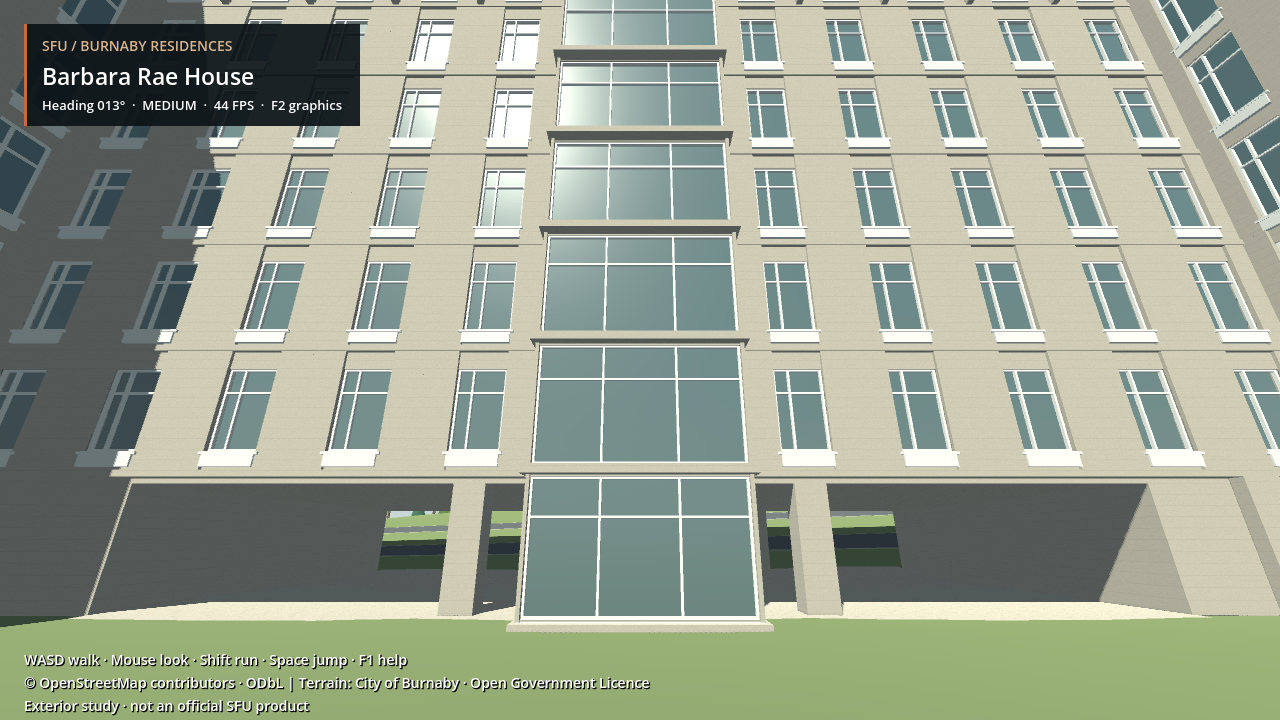
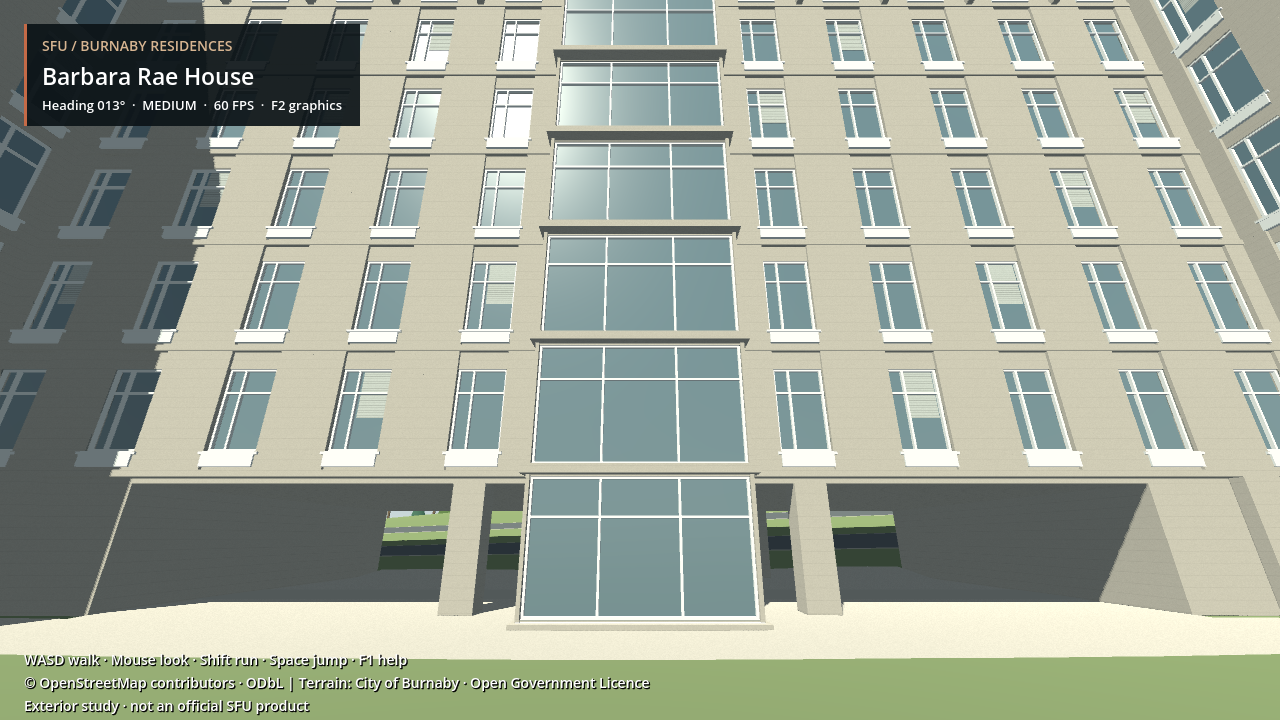
Refine North ground glazing and courtyard apron; correct building identification at entrances

diff --git a/docs/PHASE2_HANDOFF.md b/docs/PHASE2_HANDOFF.md
@@ -1,6 +1,6 @@
 # Phase 2 handoff — 2026-10-16
 
-Canonical /home/danik/GitHub/SFU Residence/game. Continue existing project. Current committed checkpoint033f2ca; plan-informed North revision in working tree with165 passing checks and333 route checkpoints. Do not redo migration, camera fix or townhouse modeling.
+Canonical /home/danik/GitHub/SFU Residence/game. Continue existing project. Current committed checkpoint033f2ca; plan-informed North revision in working tree with166 passing checks and333 route checkpoints. Do not redo migration, camera fix or townhouse modeling.
 
 ## Current work
 User approves townhouses and asks North Towers next, using supplied photos. Nine photos indexed in reference_photos/Barbara_Pauline_Shadbolt/PHOTO_REVIEW.json. Three official housing plans reviewed visually: central lounge, five room bays each side, projected stair end west BRH/SBH and east PJH. URLs in ONLINE_REFERENCES.json; private PDF copies in Windows Temp/sfu-north-plan-review. No ground-level plan in public PDFs. Full Facilities key plans require CAS; do not bypass. Preserve8 levels despite housing marketing page7/SBH PDF missing8; see audit.
@@ -8,7 +8,7 @@ User approves townhouses and asks North Towers next, using supplied photos. Nine
 NorthTowerExterior.gd now shares central glazing/room modules and per-instance stair handedness. NorthTowerPassage.gd makes two traversable exterior lanes around a closed ground lounge core. Overall width24m/core5m/clearance2.9m/columns are approximate. Tests prove both lanes and solid core/columns; exact ground configuration still needs photo-to-map work. NorthTowerMaterials.gd owns its materials, leaving E/W FacadeKit untouched.
 
 ## Verification
-165 physics checks in /tmp/north-two-lanes.log. Full333 route checks and data preservation in /tmp/north-plan-verification.log. Last changes after physics were cosmetic lounge mullion only. Plan-revision visual capture /tmp/north-plan-capture.log completed without script errors; views8/9 reviewed. Focused captures: bash scripts/run_game.sh -- --capture-north. Outputs view8 courtyard, view9 entry, performance_north.json. Earlier view9 from94,48 was blocked by neighboring building; corrected to existing BRH outdoor anchor. Do not use rejected screenshot as facade evidence.
+166 physics checks in /tmp/north-two-lanes.log. Full333 route checks and data preservation in /tmp/north-plan-verification.log. Last changes after physics were cosmetic lounge mullion only. Plan-revision visual capture /tmp/north-plan-capture.log completed without script errors; views8/9 reviewed. Focused captures: bash scripts/run_game.sh -- --capture-north. Outputs view8 courtyard, view9 entry, performance_north.json. Earlier view9 from94,48 was blocked by neighboring building; corrected to existing BRH outdoor anchor. Do not use rejected screenshot as facade evidence.
 
 ## Next concrete step
 Final views8/9 reviewed. Save this checkpoint, then improve North ground-floor glazed frontage and courtyard apron based on the supplied wide courtyard image. Resolve sign/entrance mapping before moving any registered entry. Do not invent interior circulation. Source observations/remaining estimates are in PHASE2_NORTH_TOWER_REVIEW.md and PHASE2_NORTH_PLAN_AUDIT.md.
@@ -21,3 +21,6 @@ python3 scripts/validate_families.py
 Camera user-confirmed fixed; keep native capture/separate axes. E/W hashes protected. Townhouses visually accepted. Terrain pad/threshold heights preserved; no vertical exaggeration. Original registry/routes/site and nested rollback unchanged. Old Markdown backup /home/danik/Backups/SFU-Residence-Phase1-docs-20261016 verifies29 records. No dependencies installed, no interiors/NPC/API.
 
 Latest actual usage snapshot13% five-hour/2% weekly after reset; obsolete91% stopping note does not apply. Continue on user's authorization and save meaningful verified milestones.
+
+## Ground frontage/detail milestone
+Wider ground-floor side-wing glazing, separate paving material and courtyard apron follow source photographs without changing terrain or road coordinates. Added subtle exterior blind variation and North-only glazing tone, narrowed stair screen to a partial end assembly, and adjusted inner-corner glazing. Sign bands use dark lettering at existing mapped entries (exact photographic position remains unverified). Fixed HUD nearest-building lookup to use footprint distance: PJH door no longer says Hamilton Hall.166 physics checks pass, including this regression. Final GPU capture /tmp/north-detail-capture.log completed; views8-12 reviewed for courtyard, all3 entries and passage eye-level exit. No geometry collision changes since333-route pass. DYS architect gallery additionally confirms eight-storey towers and documents stair-glazing clamps; reference metadata saved. Next: stair-glazing clamp detail and evidence-based courtyard/site refinements, with exact curved lawn/stair placement still unresolved.

diff --git a/docs/PHASE2_STATUS.md b/docs/PHASE2_STATUS.md
@@ -10,7 +10,7 @@ Checkpoint033f2ca covers columned courtyard opening, concrete materials and entr
 
 All9 user-selected photos individually reviewed and indexed. SBH identified from readable sign in PWL1001. Three official level2 plans visually reviewed; exact dimensions/ground opening layout remain estimated. Detailed evidence and uncertainty in PHASE2_NORTH_TOWER_REVIEW.md and PHASE2_NORTH_PLAN_AUDIT.md.
 
-Validation:165 physics checks pass, including two passage traversals per tower, solid columns and closed central lounge.333 continuous route checkpoints pass. Family/runtime preservation validators pass. Final plan-revision GPU capture completed on GTX1650 Compatibility; views8/9 inspected at eye level. No interiors/NPC/API.
+Validation:166 physics checks pass, including two passage traversals per tower, solid columns and closed central lounge.333 continuous route checkpoints pass. Family/runtime preservation validators pass. Final plan-revision GPU capture completed on GTX1650 Compatibility; views8/9 inspected at eye level. No interiors/NPC/API.
 
 ## Other architecture
 MCH renewed-envelope model and Courtyard precast model present; Courtyard lower-wing heights unresolved. Hamilton photo identity confirmed, detailed model pending. Dining/Shell distinct reference modeling pending. Exterior steps/paving/retaining detail remains incomplete.
@@ -18,3 +18,6 @@ MCH renewed-envelope model and Courtyard precast model present; Courtyard lower-
 Next: finish North plan-revision visual checkpoint, then refine ground-level glazed frontage/courtyard paving and map sign/entrance positions from identified photos. Preserve coordinates and avoid claiming estimated ground geometry is surveyed.
 
 Most recent actual usage snapshot during this continuation:13% five-hour/2% weekly used after reset. Earlier91% weekly snapshot is obsolete. User explicitly authorized continuing; keep runnable checkpoints, heed a new actual warning if received.
+
+## Ground frontage/detail milestone
+Wider ground-floor side-wing glazing, separate paving material and courtyard apron follow source photographs without changing terrain or road coordinates. Added subtle exterior blind variation and North-only glazing tone, narrowed stair screen to a partial end assembly, and adjusted inner-corner glazing. Sign bands use dark lettering at existing mapped entries (exact photographic position remains unverified). Fixed HUD nearest-building lookup to use footprint distance: PJH door no longer says Hamilton Hall.166 physics checks pass, including this regression. Final GPU capture /tmp/north-detail-capture.log completed; views8-12 reviewed for courtyard, all3 entries and passage eye-level exit. No geometry collision changes since333-route pass. DYS architect gallery additionally confirms eight-storey towers and documents stair-glazing clamps; reference metadata saved. Next: stair-glazing clamp detail and evidence-based courtyard/site refinements, with exact curved lawn/stair placement still unresolved.

diff --git a/docs/PHASE2_NORTH_TOWER_REVIEW.md b/docs/PHASE2_NORTH_TOWER_REVIEW.md
@@ -28,3 +28,6 @@ Townhouse common-annex/unit mapping and Hamilton detailed model remain deferred.
 
 ## Plan revision validation
 See PHASE2_NORTH_PLAN_AUDIT.md.165 physics checks pass, including both lanes in opposite directions for all3 towers and central-core closure;333 continuous checkpoints pass. Original source geometry and protected E/W pass. Public plans have no ground floor, and full Facilities key plans require CAS authentication; no bypass attempted.
+
+## Ground frontage/detail follow-up
+Inner side wings now use wider ground-level glazing above concrete bases. Courtyard apron is terrain-following and leaves original paths unchanged. North glass tone/blind pattern and concrete screen texture are original generated materials; per-room blind positions are aesthetic estimates, not occupancy claims. End screen narrowed to3.6m beside1.9m corner glazing; remaining end wall concrete. Dark name plaques are at retained registry entrances, not claimed survey locations. HUD footprint-distance fix tested at PJH.166 checks pass; final detail captures8-12 reviewed on GTX1650 Compatibility. Architect DYS gallery confirms8 storeys and close-up glass clamps; no image assets imported.
